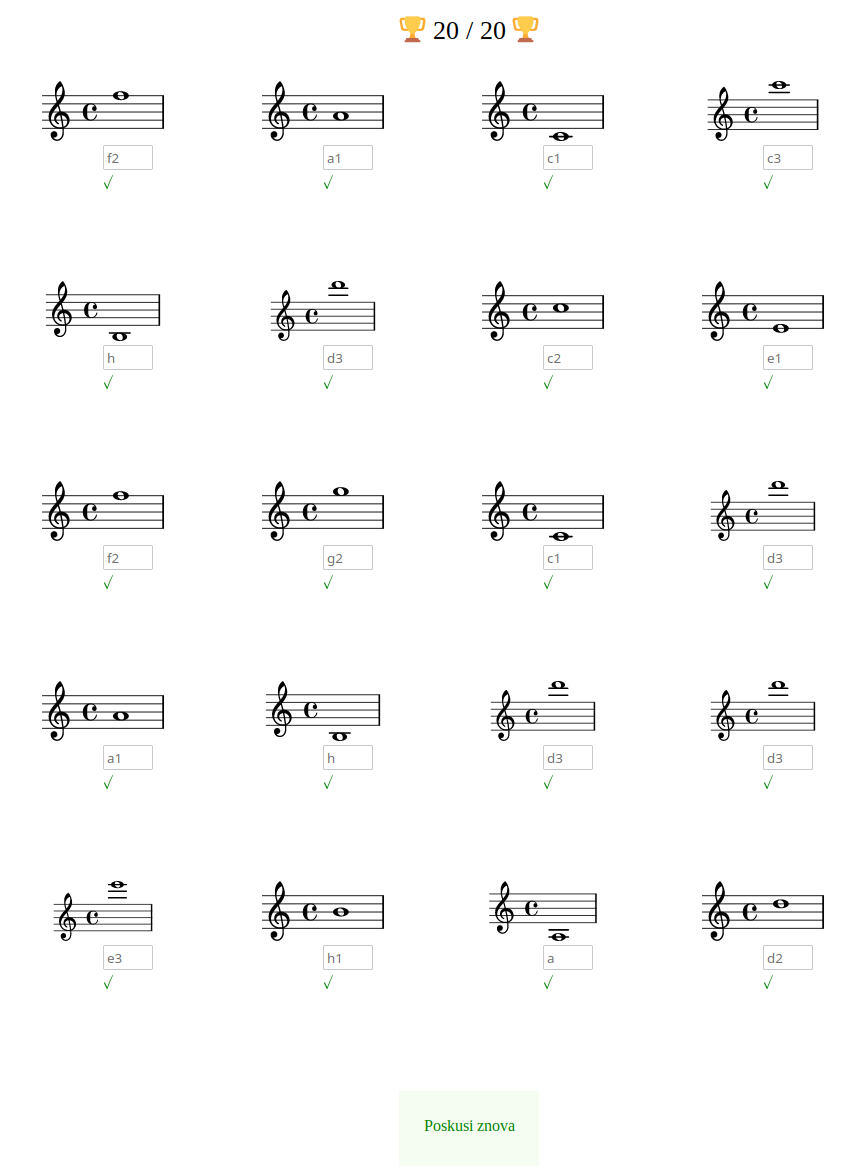
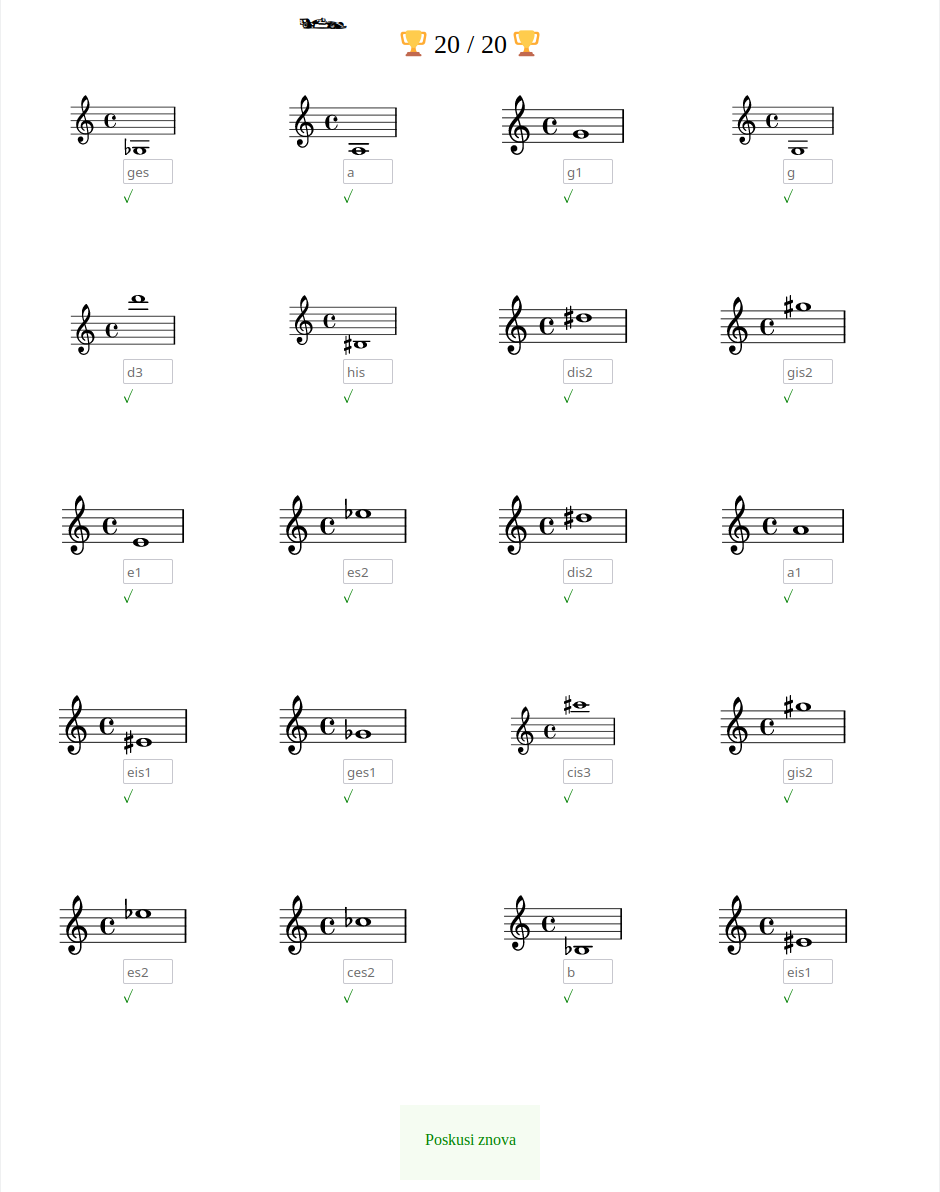
docs: Update README and a screenshot

diff --git a/README.md b/README.md
@@ -3,7 +3,7 @@
 A simple django app for [solfege](https://en.wikipedia.org/wiki/Solf%C3%A8ge) exercises.
 
 Currently supported exercises:
-- name note pitch (treble or bass clef) in Slovenian language
+- name note pitch (treble or bass clef, optional sharps and/or flats) in Slovenian/German language
 
 ![screenshot](./screenshot.png)
 
